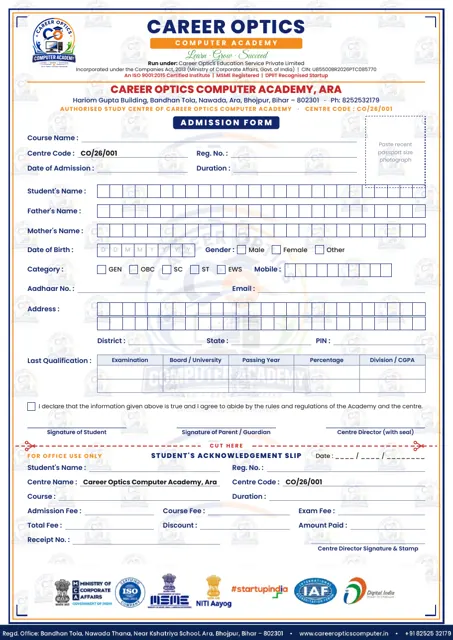
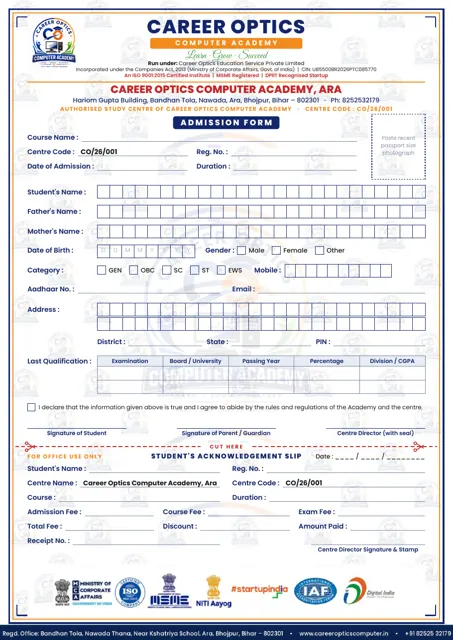
Keep the admission form's photo box clear of the name boxes
The photograph box ends above the first row of character boxes instead
of running into it.

diff --git a/organization/src/lib/brand/brandDocuments.ts b/organization/src/lib/brand/brandDocuments.ts
@@ -1048,9 +1048,9 @@ export async function drawAdmissionForm(doc: jsPDF, c: AdmissionFormCentre) {
   doc.setDrawColor(...rgb(NAVY));
   doc.setLineWidth(pt(0.8));
   doc.setLineDashPattern([pt(2), pt(1.5)], 0);
-  rect(right - 78, 153, 78, 94);
+  rect(right - 70, 150, 70, 86);
   doc.setLineDashPattern([], 0);
-  ["Paste recent", "passport size", "photograph"].forEach((t, i) => put(doc, t, { x: right - 39, y: 193 + i * 10, size: 7, font: "Poppins-Regular", color: "#8a8fa5", align: "center" }));
+  ["Paste recent", "passport size", "photograph"].forEach((t, i) => put(doc, t, { x: right - 35, y: 184 + i * 10, size: 7, font: "Poppins-Regular", color: "#8a8fa5", align: "center" }));
 
   // Top lines: course, centre code / reg. no., date / duration
   const ul = (label: string, x: number, y: number, w: number, value = "") => {
@@ -1062,15 +1062,15 @@ export async function drawAdmissionForm(doc: jsPDF, c: AdmissionFormCentre) {
     if (value) put(doc, value, { x: lx0 + 4, y, size: 9, font: "Poppins-Bold", color: "#1a1a1a", maxWidth: x + w - lx0 - 6 });
   };
   const formW = W - 90;
-  let y = 185;
+  let y = 184;
   ul("Course Name :", left, y, formW);
-  y += 20;
+  y += 19;
   ul("Centre Code :", left, y, formW / 2 - 6, c.centreCode || "");
   ul("Reg. No. :", left + formW / 2 + 6, y, formW / 2 - 6);
-  y += 20;
+  y += 19;
   ul("Date of Admission :", left, y, formW / 2 - 6);
   ul("Duration :", left + formW / 2 + 6, y, formW / 2 - 6);
-  y += 18;
+  y += 22;
 
   // Character boxes
   const labelW = 92;
